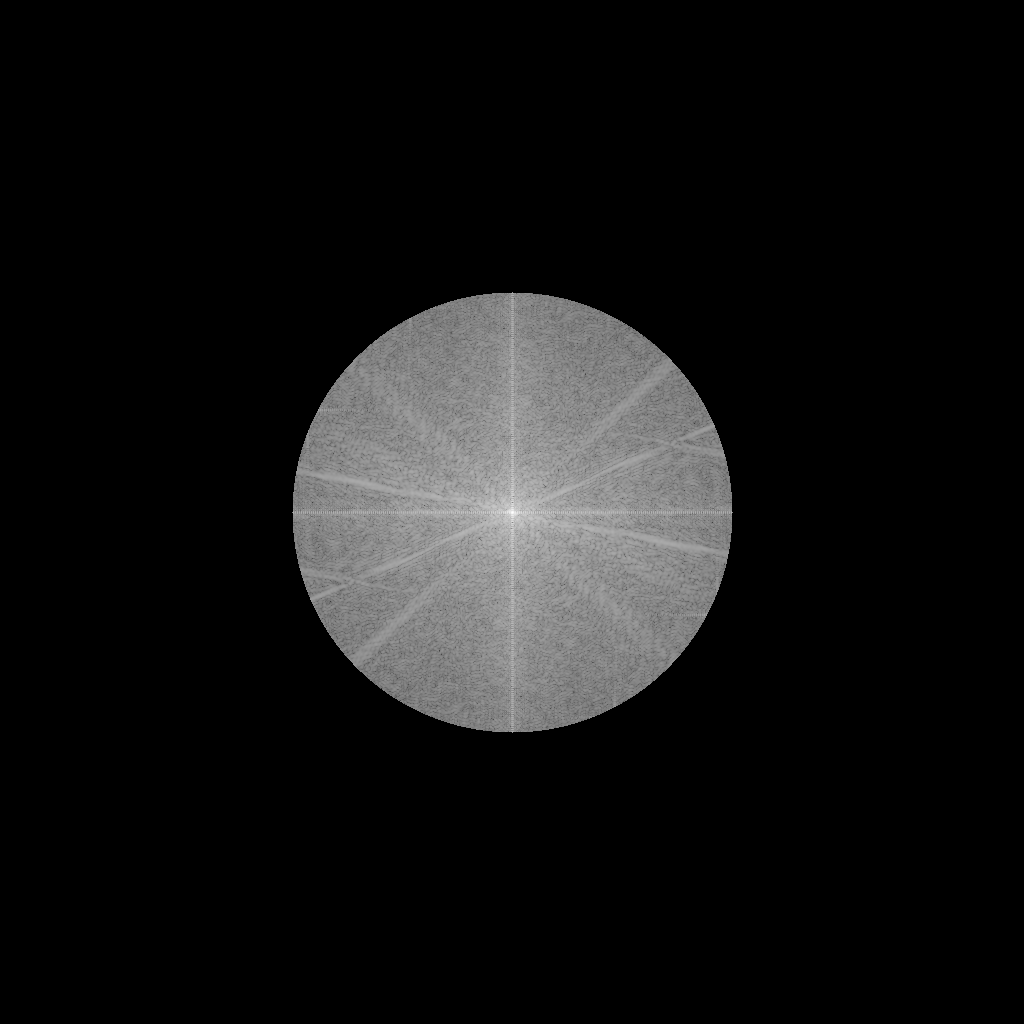
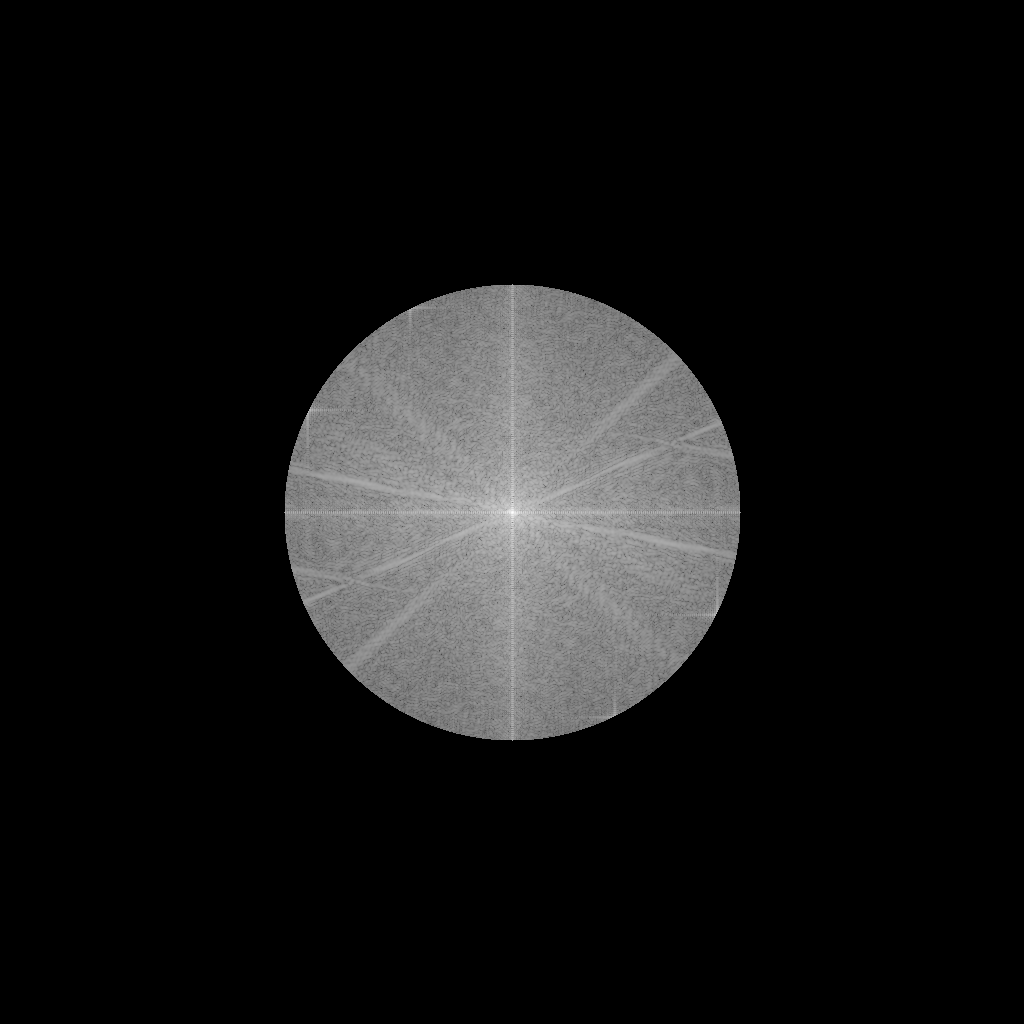
update

diff --git a/Problem3.py b/Problem3.py
@@ -1,12 +1,11 @@
 from Helping import *
-from numpy import fft
 
 CAMERAMAN_NOISY_PATH = 'res/cameramanNoisy.gif'
 CAMERAMAN_ORIGINAL_PATH = 'res/cameraman.gif'
 
 
 def part_a():
-    lowpass_filter_mask = ideal_lowpass_filter(magnitude, 220)
+    lowpass_filter_mask = ideal_lowpass_filter(magnitude, 228)
     evaluate_filter(lowpass_filter_mask, 'ideal lowpass filter')
 
 
@@ -42,7 +41,7 @@ def evaluate_filter(filter_mask, filter_name):
 
 def ideal_notch_reject_filter(image, centers, radii):
     middle_y, middle_x = get_middle(image)
-    i, j = np.indices(magnitude.shape, sparse=True)
+    i, j = np.indices(magnitude.shape)
     filter_mask = np.ones(magnitude.shape)
     for center, radius in zip(centers, radii):
         y, x = center
